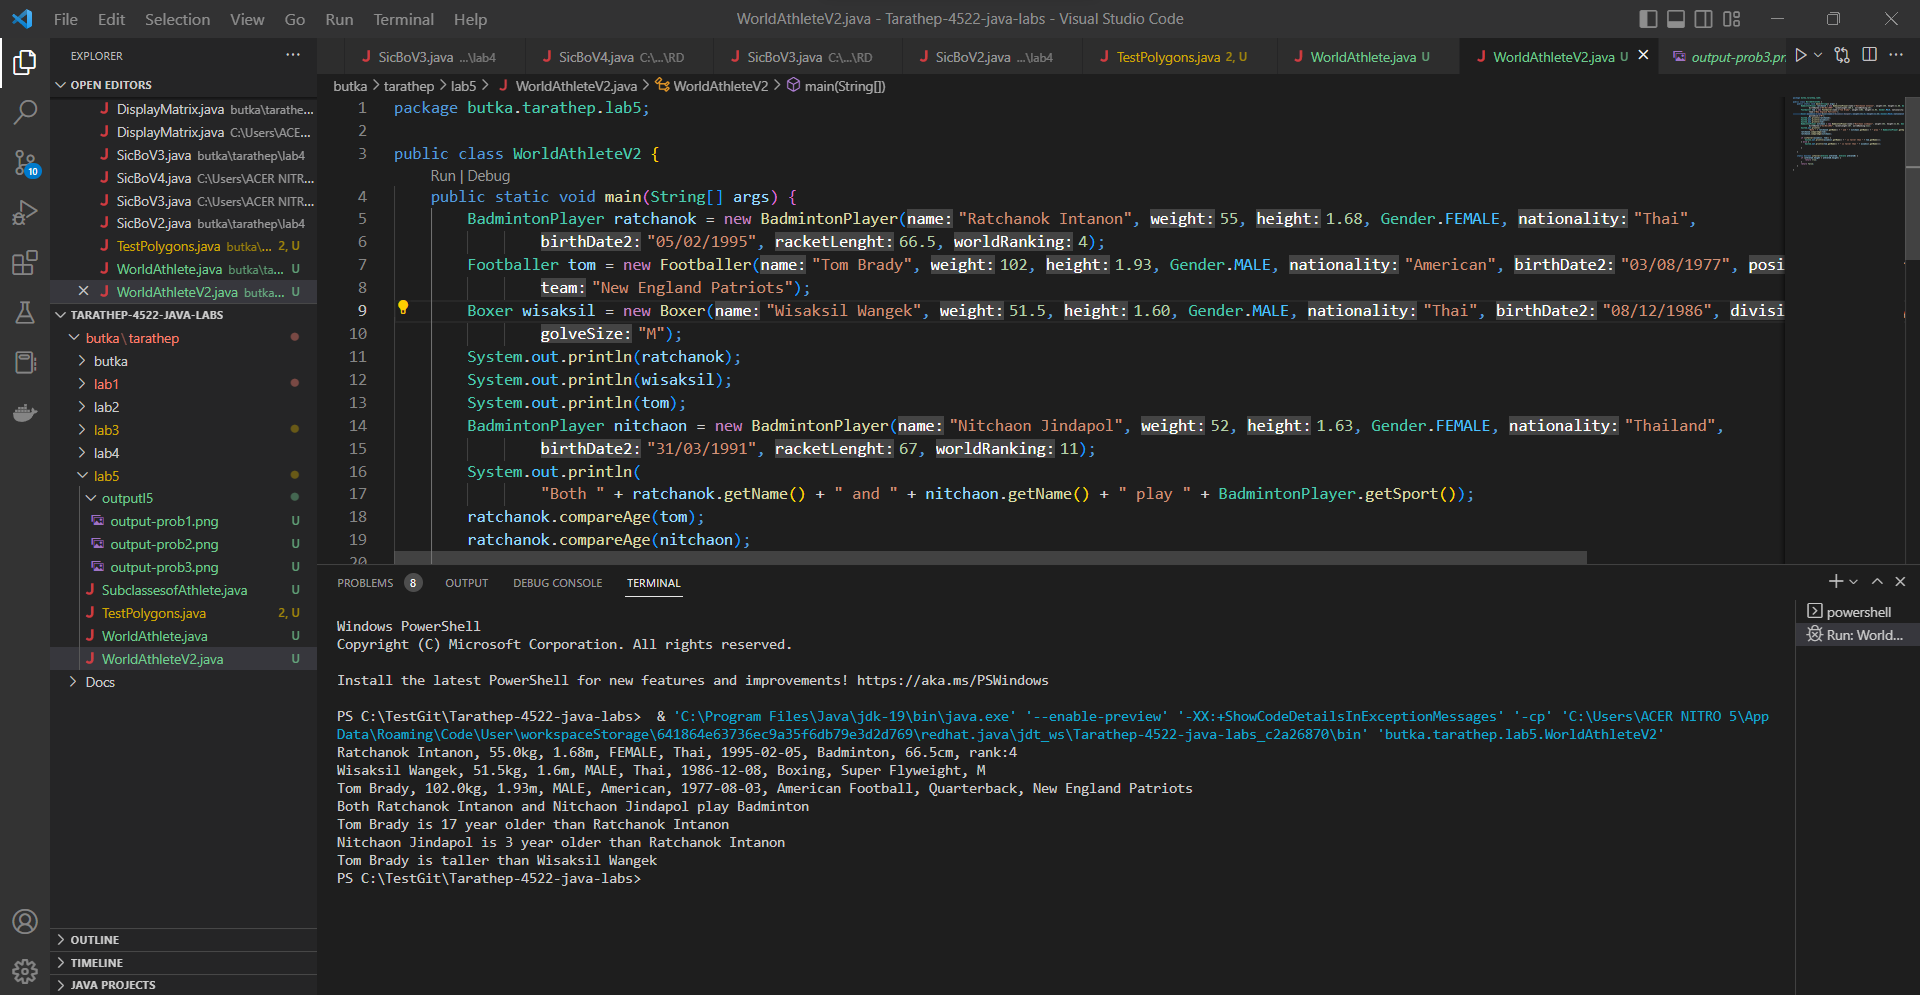
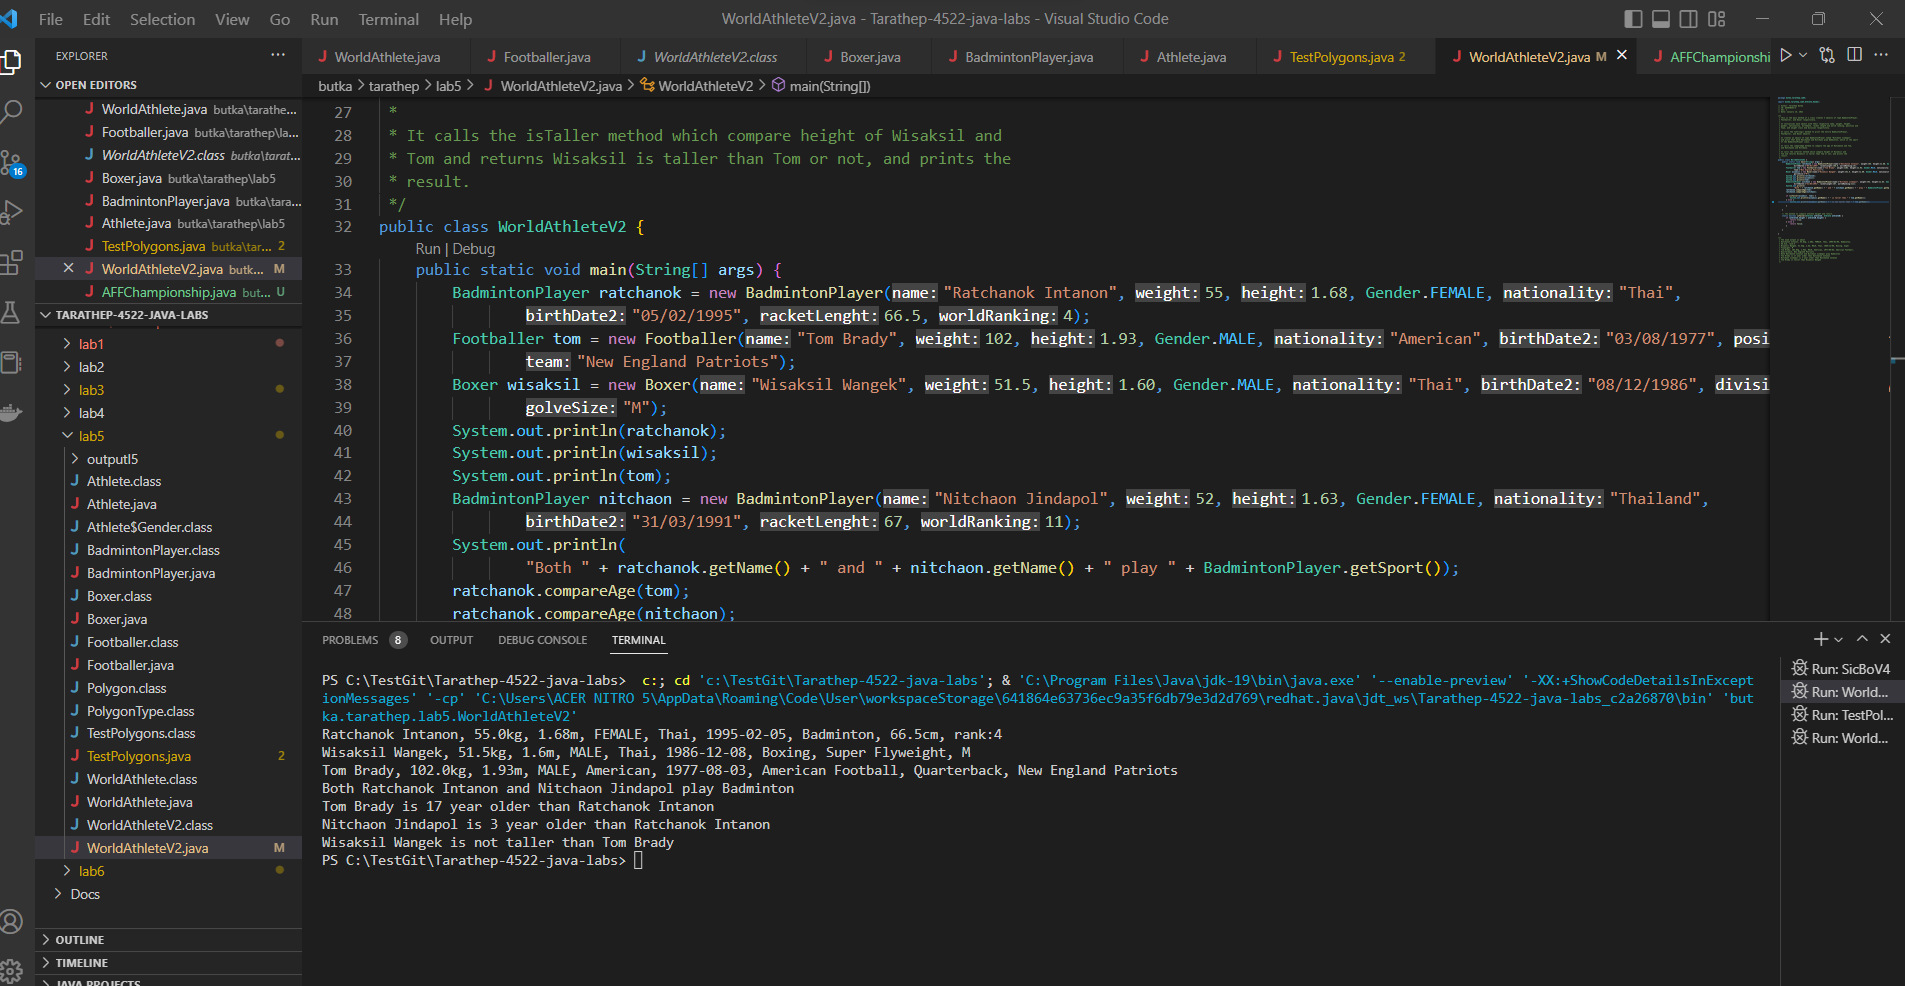
lab5

diff --git a/butka/tarathep/lab5/WorldAthleteV2.java b/butka/tarathep/lab5/WorldAthleteV2.java
@@ -50,7 +50,7 @@ public class WorldAthleteV2 {
         if (isTaller(wisaksil, tom)) {
             System.out.println(wisaksil.getName() + " is taller than " + tom.getName());
         } else {
-            System.out.println(tom.getName() + " is taller than " + wisaksil.getName());
+            System.out.println(wisaksil.getName() + " is not taller than " + tom.getName());
 
         }
 
